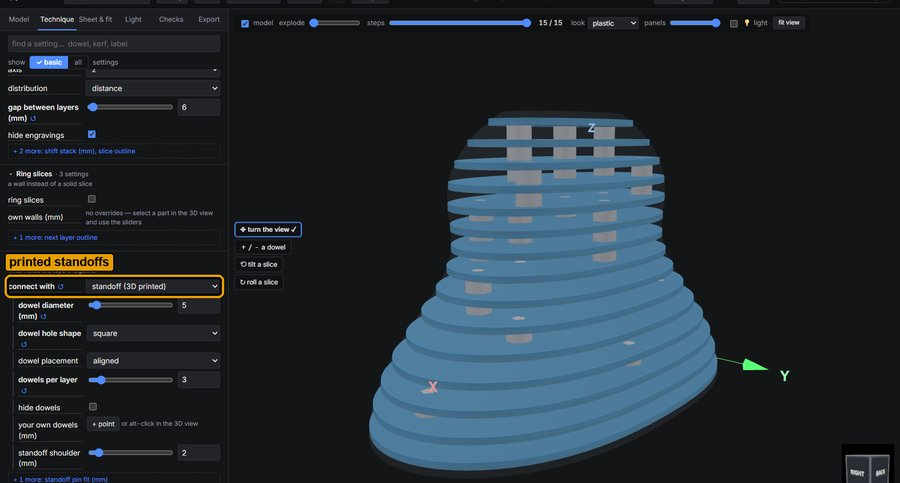
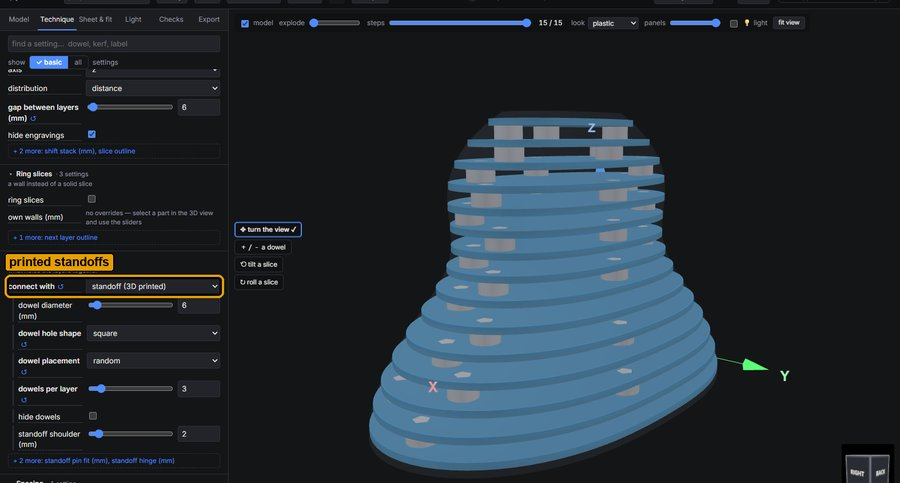
Standoffs too small to print well are warned about, with the setting that cures it; the shade opens on 6 mm pins, no shared hole (058)

diff --git a/web/static/index.html b/web/static/index.html
@@ -71,6 +71,8 @@
       zip.</li>
     <li>In the file each standoff is two halves, flat side down, joined by a thin hinge. Print them as they lie, with
       no supports. Fold the halves together, then push the pins into the holes. The holes keep the standoff closed.</li>
+    <li>Small standoffs print badly. The app warns under a 5 mm <b>dowel diameter</b>, and when a shared pin is under
+      2 mm long. With <b>dowel placement</b> = <b>random</b> no hole is shared: every pin is as long as the layer is thick.</li>
     <li>Pins too tight or too loose: change <b>standoff pin fit</b>. A square <b>dowel hole shape</b> stops a layer turning.</li></ul>
   <h4>Library</h4>
   <ul><li><b>library</b> in the top bar opens your saved projects, newest first, each with a picture, and the examples

diff --git a/core/modes/connectors.py b/core/modes/connectors.py
@@ -14,6 +14,11 @@ _dist = lambda a, b: math.hypot(a[0] - b[0], a[1] - b[1])   # noqa: E731
 
 PIN_SHORT = 0.1            # a standoff's pin in a shared hole stops this short of the layer's middle: the two never touch
 FLUSH = "pentagon"         # the shape of a hole only one standoff uses, and of the pin that goes through it
+# Under these a standoff is warned about (bug 058: Marcel's print at 3.9 mm across with 1.4 mm shared pins, "too small,
+# too thin and they pop out of the bed & too fragile"). ponytail: one print sets them; 5 and 2 mm are not proven to
+# print well, only 3.9 and 1.4 to print badly. Move them when a print says so.
+SMALL_PIN = 5.0            # mm of dowel diameter: the pin is that less the pin fit
+SHORT_PIN = 2.0            # mm a pin goes into its hole
 MIN_DOWEL = 2.0            # below this a dowel is not worth cutting for: too small to buy, too weak to locate anything
 ABC_LOWER = ABC.lower()    # the letters of connector names, no i or o (they read as 1 and 0 when engraved small)
 
@@ -200,6 +205,16 @@ class Connectors:
                     text = s.cutnames[k].split("-", 1)[1]              # its mark keeps clear of the new shape
                     for m in [m for m in s.marks if m[2] == text]:
                         s.marks.remove(m); hole_mark(s, new, text, p["font"])
+        # what is too small to print well, said before it is printed, with the setting that cures it
+        across = self.d - p["pin_fit"]
+        short = [n for e, *_ in self.pins for n, own in zip(e["pins"], e["flush"]) if not own and n < SHORT_PIN]
+        if self.pins and self.d < SMALL_PIN:
+            self.ctx.warnings.append(f"standoff pins {across:g} mm across are small to print: each prints as two halves {across / 2:.2g} mm high, "
+                                     f"which come off the bed and break. Set the dowel diameter to {SMALL_PIN:g} mm or more")
+        if short:
+            self.ctx.warnings.append(f"{len(short)} standoff pin(s) in shared holes are only {min(short):g} mm long: half the layer, a stub that "
+                                     "holds little and prints badly. Set dowel placement to random: then no hole is shared and every pin "
+                                     "is as long as the layer is thick. Or use thicker sheet")
 
     # ------------------------------------------------------------ one connector
     def cut(self, x, y, ang, tab_w):

diff --git a/tests/test_standoff.py b/tests/test_standoff.py
@@ -107,6 +107,22 @@ def test_a_standoff_prints_as_two_halves_on_a_hinge_that_fold_into_it():
         assert off.max() < 1e-3, off.max()
 
 
+def test_a_standoff_too_small_to_print_well_is_warned_about_with_the_setting_that_cures_it():
+    """Bug 058, Marcel on his first print (pins 3.9 mm across, shared pins 1.4 mm long): "too small, too thin and they
+    pop out of the bed & too fragile". A dowel diameter under 5 mm and shared pins under 2 mm long are each a warning of
+    the plan that names the setting to change. With 6 mm pins and random placement no hole is shared, every pin is as
+    long as the layer is thick, and nothing is warned."""
+    said = lambda **job: build(EXAMPLES / "egg.stl", "stacked", {**JOB, **job})["warnings"]   # noqa: E731
+    small = said(dowel_d=4)
+    assert any("3.9 mm across" in w and "dowel diameter to 5 mm or more" in w for w in small), small
+    assert any("only 1.4 mm long" in w and "placement to random" in w for w in small), small
+    five = said()                                                      # 5 mm: wide enough, the shared pins still short
+    assert len(five) == 1 and "only 1.4 mm long" in five[0], five
+    plan = build(EXAMPLES / "egg.stl", "stacked", {**JOB, "dowel_d": 6, "placement": "random"})
+    assert plan["warnings"] == [] and {n for e in plan["standoffs"]["items"] for n in e["pins"]} == {3.0}
+    assert all(all(e["flush"]) for e in plan["standoffs"]["items"])
+
+
 def test_the_print_file_holds_every_standoff_and_the_key_says_where_each_size_goes(tmp_path):
     """The export carries the print file beside the cut files, named 3D-PRINT so it is not taken for a cut file, with
     a note. One object per standoff, each a closed solid on the plate. A pin is smaller than its hole by the slot

diff --git a/README.md b/README.md
@@ -475,7 +475,9 @@ does not slip through. It carries the most signal for stacked and folded work; d
   file each standoff is cut in half along its length. The two halves lie flat side down, joined by a thin hinge,
   and print without supports. Fold the halves together and push the pins into the holes: the holes keep the
   standoff closed. A job with 3D-printed layers gets the same file in its print set. `shoulder` sets how wide the
-  body is, `pin_fit` how tight the pins are, `standoff_hinge` how thick the hinge is. The `shade`
+  body is, `pin_fit` how tight the pins are, `standoff_hinge` how thick the hinge is. Small standoffs
+  print badly, so the plan warns under a 5 mm dowel diameter and when a shared pin is under 2 mm long. With
+  `placement` = `random` no hole is shared, and every pin is as long as the layer is thick. The `shade`
   example opens with them.
 - **An assembly key** comes with the cut files (`assembly-key.txt`): what this technique's labels mean — `R-2a` is the
   *a* half of the second radial plane, `Z-3` the third ring up — then every part with its centre, what it slots onto,
